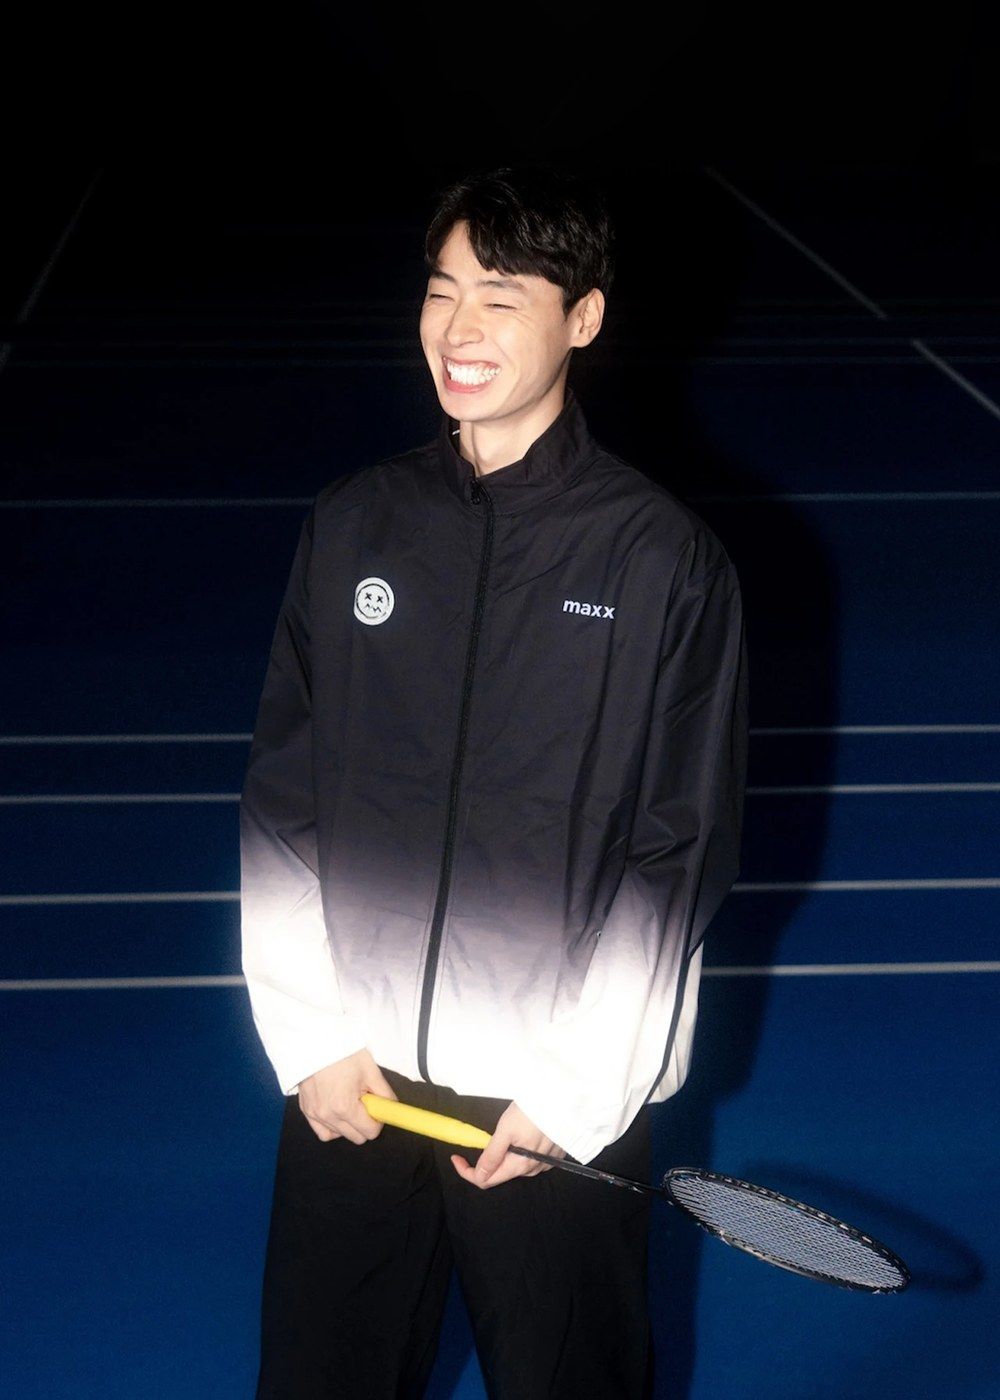
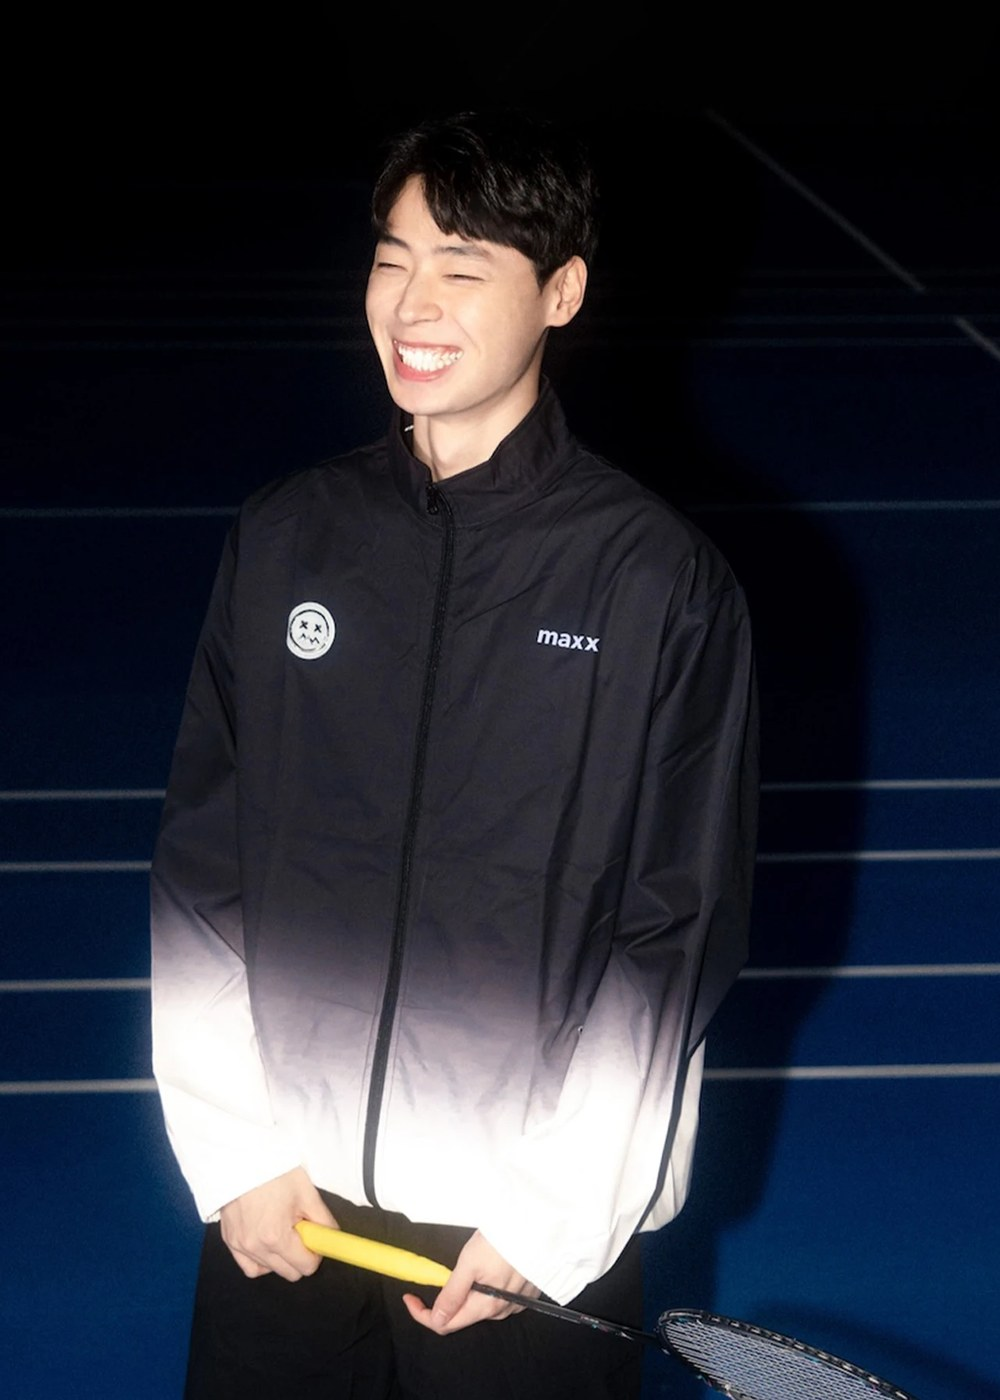
김현규 코치 사진 교체

diff --git a/badminton.html b/badminton.html
@@ -230,7 +230,7 @@
         </div>
       </article>
       <article class="coach rv">
-        <div class="photo"><img src="images/coach/kim-hyungyu.jpg?v=4" alt="김현규 코치"></div>
+        <div class="photo"><img src="images/coach/kim-hyungyu.jpg?v=5" alt="김현규 코치"></div>
         <div class="body">
           <h3 class="en">KIM HYUNKYU</h3>
           <p class="kr">김현규 코치</p>
